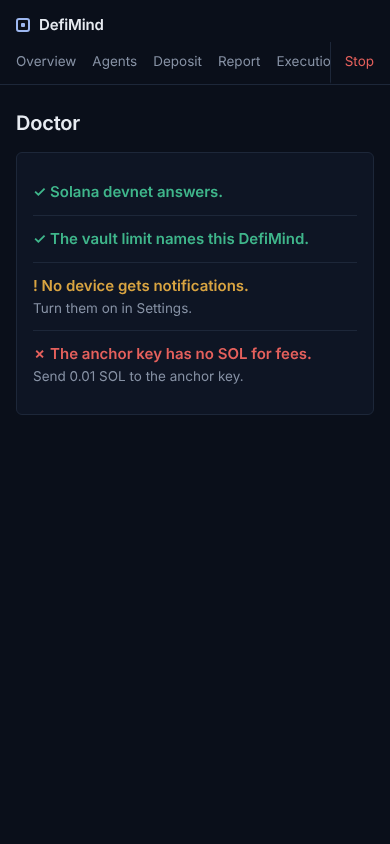
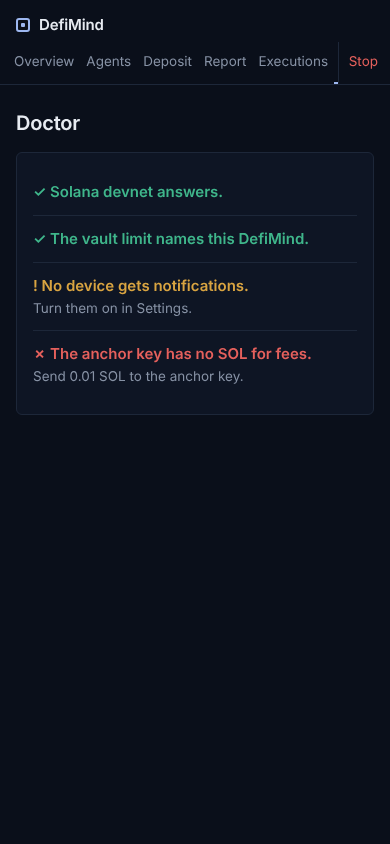
style(panel): addresses in monospace; tabs fit beside Stop (PANEL-18)
The manager's follow-ups:
- Pays/To on approval, Recipients on a task budget, and Tokens on the agent page use the mono
  face, at 12.5px in #c6cfdd, and still wrap whole.
- Slightly tighter tab padding, so Executions shows whole beside Stop at 390px instead of being cut
  mid-word.
- The after screenshots are retaken.

Claude-Session: https://claude.ai/code/session_01JbATMzpGbP64syCMYQxB15

Changed region(s): [[0.3692, 0.0616, 0.9846, 0.0924], [0.0308, 0.0616, 0.1846, 0.0924], [0.2154, 0.0616, 0.3385, 0.0924]]

diff --git a/packages/panel/src/ui/approval.ts b/packages/panel/src/ui/approval.ts
@@ -50,7 +50,10 @@ export async function approval(ctx: Context, id: string): Screen {
         {},
         row('Agent', intent.agentId),
         row('Chain', el('span', { class: 'pill chain' }, chainName(intent.chain))),
-        row(intent.kind === 'x402' ? 'Pays' : 'To', intent.recipient),
+        row(
+          intent.kind === 'x402' ? 'Pays' : 'To',
+          el('span', { class: 'mono' }, intent.recipient),
+        ),
         intent.domain !== undefined && row('For', intent.domain),
         row('Agent says', intent.reason),
         row('Simulation', simulation.summary),
@@ -82,7 +85,7 @@ export async function mandate(ctx: Context, id: string): Screen {
         row('Agent', task.agentId),
         row('Agent says', task.reason),
         row('Domains', list(task.domains)),
-        row('Recipients', list(task.recipients)),
+        row('Recipients', el('span', { class: 'mono' }, list(task.recipients))),
         ttlSeconds !== undefined &&
           row('Lasts', `${Math.ceil(ttlSeconds / 60)} minutes once approved`),
         row('Decide before', when(approveBefore)),

diff --git a/packages/panel/public/app.css b/packages/panel/public/app.css
@@ -138,7 +138,7 @@ nav::-webkit-scrollbar {
 
 nav a {
   flex: none;
-  padding: 10px 8px 11px;
+  padding: 10px 6px 11px;
   border-bottom: 2px solid transparent;
   color: var(--muted);
   text-decoration: none;
@@ -155,8 +155,8 @@ nav a.stop {
   position: sticky;
   right: 0;
   margin-left: auto;
-  padding-left: 14px;
-  padding-right: max(16px, env(safe-area-inset-right));
+  padding-left: 10px;
+  padding-right: max(12px, env(safe-area-inset-right));
   border-left: 1px solid var(--line);
   background: var(--bg);
   color: var(--stop);
@@ -606,6 +606,15 @@ pre {
 
 .badge-line.stop {
   color: var(--stop);
+}
+
+/* Addresses: monospace, a shade quieter, and whole. */
+.mono {
+  color: #c6cfdd;
+  font-family: var(--mono);
+  font-size: 12.5px;
+  line-height: 1.55;
+  word-break: break-all;
 }
 
 /* Transaction ids and hashes are one long word: break them anywhere rather than widen the page. */

diff --git a/packages/panel/src/ui/agent.ts b/packages/panel/src/ui/agent.ts
@@ -73,7 +73,7 @@ function policyForm(ctx: Context, policy: PolicyView, known: string[]) {
       'dl',
       {},
       known.length === 0 && row('Chains', policy.chains.map(chainName).join(', ') || 'none'),
-      row('Tokens', policy.tokens.join(', ') || 'none'),
+      row('Tokens', el('span', { class: 'mono' }, policy.tokens.join(', ') || 'none')),
     ),
     ...(known.length > 0 ? chains.nodes : []),
     ...perTx.nodes,
